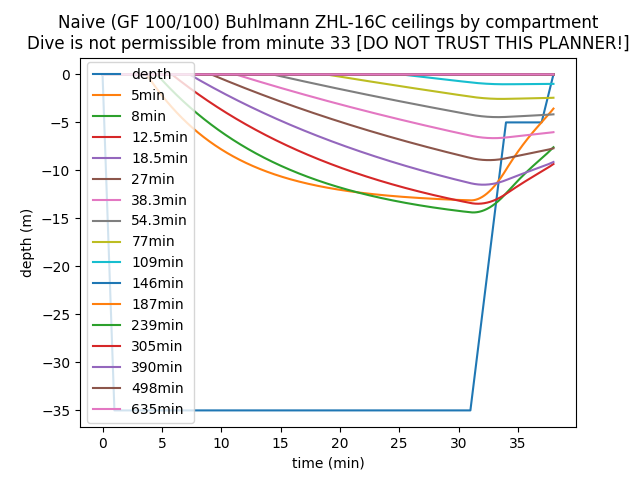
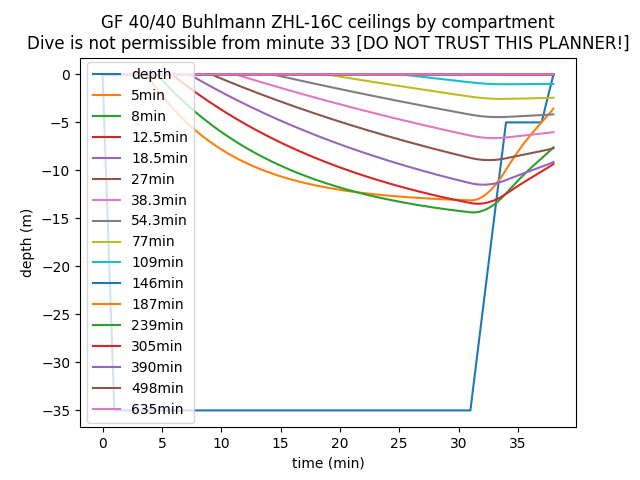
update graph

Changed region(s): [[0.0938, 0.0312, 0.9375, 0.0625]]

diff --git a/deco.py b/deco.py
@@ -84,7 +84,7 @@ class DiveAlgorithm(ABC):
 
 class BuhlmannCompartment:
     def __init__(self, gf_hi, surfacing_m_value, m_value_slope, half_time_min) -> None:
-        self.gf_hi = gf_hi  # unused
+        self.gf_hi = gf_hi  # TODO refactor again
         self.surfacing_m_value = surfacing_m_value  # in metres of sea water (10 msw = 1 bar = surface)
         self.m_value_slope = m_value_slope
         self.half_time_min = half_time_min
@@ -195,25 +195,27 @@ class BuhlmannState(Sequence):
         return str(self.__state__)
 
 class Buhlmann_Z16C(DiveAlgorithm):
-    def __init__(self, gf_hi=100) -> None:
+    def __init__(self, gf=100) -> None:
         # https://www.shearwater.com/wp-content/uploads/2019/05/understanding_m-values.pdf
+        self.gf_hi=gf
+        self.gf_lo=gf  # not used, much harder to implement
         self.compartments = [
-            BuhlmannCompartment(gf_hi=gf_hi,surfacing_m_value=29.65704, m_value_slope = 1.7928,half_time_min=5),
-            BuhlmannCompartment(gf_hi=gf_hi,surfacing_m_value=25.35936, m_value_slope = 1.5352,half_time_min=8),
-            BuhlmannCompartment(gf_hi=gf_hi,surfacing_m_value=22.49424, m_value_slope = 1.3847,half_time_min=12.5),
-            BuhlmannCompartment(gf_hi=gf_hi,surfacing_m_value=20.36064, m_value_slope = 1.278,half_time_min=18.5),
-            BuhlmannCompartment(gf_hi=gf_hi,surfacing_m_value=18.53184, m_value_slope = 1.2306,half_time_min=27),
-            BuhlmannCompartment(gf_hi=gf_hi,surfacing_m_value=16.94688, m_value_slope = 1.1857,half_time_min=38.3),
-            BuhlmannCompartment(gf_hi=gf_hi,surfacing_m_value=15.94104, m_value_slope = 1.1504,half_time_min=54.3),
-            BuhlmannCompartment(gf_hi=gf_hi,surfacing_m_value=15.27048, m_value_slope = 1.1223,half_time_min=77),
-            BuhlmannCompartment(gf_hi=gf_hi,surfacing_m_value=14.7828, m_value_slope = 1.0999,half_time_min=109),
-            BuhlmannCompartment(gf_hi=gf_hi,surfacing_m_value=14.38656, m_value_slope = 1.0844,half_time_min=146),
-            BuhlmannCompartment(gf_hi=gf_hi,surfacing_m_value=14.05128, m_value_slope = 1.0731,half_time_min=187),
-            BuhlmannCompartment(gf_hi=gf_hi,surfacing_m_value=13.74648, m_value_slope = 1.0635,half_time_min=239),
-            BuhlmannCompartment(gf_hi=gf_hi,surfacing_m_value=13.44168, m_value_slope = 1.0552,half_time_min=305),
-            BuhlmannCompartment(gf_hi=gf_hi,surfacing_m_value=13.13688, m_value_slope = 1.0478,half_time_min=390),
-            BuhlmannCompartment(gf_hi=gf_hi,surfacing_m_value=12.92352, m_value_slope = 1.0414,half_time_min=498),
-            BuhlmannCompartment(gf_hi=gf_hi,surfacing_m_value=12.74064, m_value_slope = 1.0359,half_time_min=635)
+            BuhlmannCompartment(gf_hi=gf,surfacing_m_value=29.65704, m_value_slope = 1.7928,half_time_min=5),
+            BuhlmannCompartment(gf_hi=gf,surfacing_m_value=25.35936, m_value_slope = 1.5352,half_time_min=8),
+            BuhlmannCompartment(gf_hi=gf,surfacing_m_value=22.49424, m_value_slope = 1.3847,half_time_min=12.5),
+            BuhlmannCompartment(gf_hi=gf,surfacing_m_value=20.36064, m_value_slope = 1.278,half_time_min=18.5),
+            BuhlmannCompartment(gf_hi=gf,surfacing_m_value=18.53184, m_value_slope = 1.2306,half_time_min=27),
+            BuhlmannCompartment(gf_hi=gf,surfacing_m_value=16.94688, m_value_slope = 1.1857,half_time_min=38.3),
+            BuhlmannCompartment(gf_hi=gf,surfacing_m_value=15.94104, m_value_slope = 1.1504,half_time_min=54.3),
+            BuhlmannCompartment(gf_hi=gf,surfacing_m_value=15.27048, m_value_slope = 1.1223,half_time_min=77),
+            BuhlmannCompartment(gf_hi=gf,surfacing_m_value=14.7828, m_value_slope = 1.0999,half_time_min=109),
+            BuhlmannCompartment(gf_hi=gf,surfacing_m_value=14.38656, m_value_slope = 1.0844,half_time_min=146),
+            BuhlmannCompartment(gf_hi=gf,surfacing_m_value=14.05128, m_value_slope = 1.0731,half_time_min=187),
+            BuhlmannCompartment(gf_hi=gf,surfacing_m_value=13.74648, m_value_slope = 1.0635,half_time_min=239),
+            BuhlmannCompartment(gf_hi=gf,surfacing_m_value=13.44168, m_value_slope = 1.0552,half_time_min=305),
+            BuhlmannCompartment(gf_hi=gf,surfacing_m_value=13.13688, m_value_slope = 1.0478,half_time_min=390),
+            BuhlmannCompartment(gf_hi=gf,surfacing_m_value=12.92352, m_value_slope = 1.0414,half_time_min=498),
+            BuhlmannCompartment(gf_hi=gf,surfacing_m_value=12.74064, m_value_slope = 1.0359,half_time_min=635)
         ]
 
     def __calculate_states__(self, dive_profile: DiveProfile):
@@ -249,7 +251,7 @@ def graph_buhlmann_dive_profile(dive: DiveProfile, buhlmann: Buhlmann_Z16C):
     plt.xlabel('time (min)')
     plt.ylabel('depth (m)')
     plt.title(
-        'Naive (GF 100/100) Buhlmann ZHL-16C ceilings by compartment\n'
+        'GF {gf_lo}/{gf_hi} Buhlmann ZHL-16C ceilings by compartment\n'.format(gf_lo=buhlmann.gf_lo, gf_hi=buhlmann.gf_hi)
         + 'Dive is {} [DO NOT TRUST THIS PLANNER!]'.format(
             'permissible' if validation else 'not permissible from minute {}'.format(min_minute_not_allowed)
             )
@@ -279,6 +281,6 @@ dive_checkpoints = lazy_make_dive_checkpoints([
 ])
 
 dive = DiveProfile(checkpoints=dive_checkpoints)
-buhlmann = Buhlmann_Z16C(gf_hi=40)
+buhlmann = Buhlmann_Z16C(gf=40)
 buhlmann.process(dive)
 graph_buhlmann_dive_profile(dive, buhlmann)
